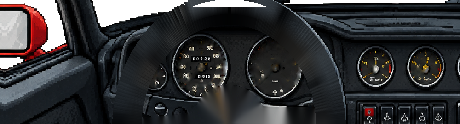
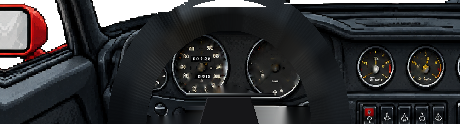
Unão Turbo (Uno Turbo i.e.) no jogo e acabamento da cabine da Onça GTB
- Sprites da lateral, traseira e frente na grade nativa (uno_sprites.py), pintura
  pelo matiz vermelho sem lanternas nem o Turbo da grade; marcas reais trocadas:
  emblema e letreiro da traseira viram lataria, placa genérica, adesivo do vidro
  sai, emblema fictício na grade
- Cabine importada (volante medido em wheels/br-uno.json), aro antigo refeito sem
  sobrar sombra no céu (gtb_rim_fix.py com opção ceu), emblema fictício no volante,
  marca do console e reflexo desenhado do retrovisor fora (uno_cockpit.py)
- Quadro Veglia como o do carro: velocímetro 0-240 com hodômetro e parcial,
  conta-giros 0-80 com faixas amarela e vermelha, turbo 0-1 bar, óleo duplo,
  combustível e água; luz da seta na régua de baixo
- Faróis, piscas, lanternas e rodas que giram
- Onça GTB: faixa do aro antigo com margem maior e média mais larga (sem lista
  clara nem riscos) e borrão atrás do miolo virou painel liso com a capa da coluna

Claude-Session: https://claude.ai/code/session_01MLD9VR7gkmY4w6a9beZcp6

diff --git a/src/carsbr.ts b/src/carsbr.ts
@@ -41,7 +41,7 @@ export const BR_CARS: CarSpec[] = [
   fwd(spec({ id: 'br-gol16v', name: 'Gaúcho GTi 16V', basedOn: 'VW Gol GTi 2.0 16v (1995)', color: '#ececec', price: 22000, position: 'dianteira', engine: '4 cil. 16v', cc: 1984, cv: 145, kmh: 205, z100: 8.0, kg: 1030, curve: 'vtec', lat: 0.88, brake: 0.95, handling: 1.02 })),
   fwd(spec({ id: 'br-tipo16v', name: 'Tiplo 16V', basedOn: 'Fiat Tipo Sedicivalvole 2.0 16v (1995)', color: '#1a3aa8', price: 21000, position: 'dianteira', engine: '4 cil. 16v', cc: 1995, cv: 137, kmh: 205, z100: 8.9, kg: 1170, curve: 'vtec', lat: 0.86, brake: 0.93, handling: 0.97 })),
   spec({ id: 'br-omega', name: 'Ômaga CD', basedOn: 'Chevrolet Omega CD 3.0 (1993)', color: '#2a2a3a', price: 30000, position: 'dianteira', engine: '6 cil. em linha', cc: 2969, cv: 165, kmh: 215, z100: 9.2, kg: 1380, curve: 'torque', lat: 0.84, brake: 0.95, handling: 0.88 }),
-  fwd(spec({ id: 'br-uno', name: 'Unão Turbo', basedOn: 'Fiat Uno Turbo i.e. 1.4 (1994)', color: '#c81818', price: 15000, position: 'dianteira', engine: '4 cil. turbo', cc: 1372, cv: 118, kmh: 195, z100: 8.8, kg: 950, curve: 'turbo', lat: 0.86, brake: 0.92, handling: 1.02 })),
+  { ...fwd(spec({ id: 'br-uno', name: 'Unão Turbo', basedOn: 'Fiat Uno Turbo i.e. 1.4 (1994)', color: '#c81818', price: 15000, position: 'dianteira', engine: '4 cil. turbo', cc: 1372, cv: 118, kmh: 195, z100: 8.8, kg: 950, curve: 'turbo', lat: 0.86, brake: 0.92, handling: 1.02 })), dash: 'br-uno', rear: { h: 0.83, roof: 0.66, lights: 'rect', wing: 1, glow: { dots: [[0.12, 0.585], [0.88, 0.585]] } } },
   spec({ id: 'br-charger', name: 'Carregador R/T', basedOn: 'Dodge Charger R/T 318 V8 (1971)', color: '#e8a018', price: 24000, position: 'dianteira', engine: 'V8', cc: 5212, cv: 215, kmh: 190, z100: 11.0, kg: 1500, gears: G4, curve: 'torque', lat: 0.72, brake: 0.8, handling: 0.78 }),
   spec({ id: 'br-maverick', name: 'Mavério GT', basedOn: 'Ford Maverick GT V8 302 (1974)', color: '#1a7a3a', price: 23000, position: 'dianteira', engine: 'V8', cc: 4950, cv: 197, kmh: 185, z100: 10.5, kg: 1350, gears: G4, curve: 'torque', lat: 0.74, brake: 0.8, handling: 0.8 }),
   // ---- classe D ----

diff --git a/src/cockpit.ts b/src/cockpit.ts
@@ -458,6 +458,30 @@ COCKPIT_ART['br-kadett'] = {
   extra: (c, ox, r) => kadettCluster(c, ox, r),
 };
 
+// Unão Turbo: quadro Veglia Borletti como o do carro — velocímetro 0-240 com hodômetro e parcial,
+// conta-giros 0-80 (× 100 rpm, "electronic") com faixa amarela e vermelha, manômetro do turbo
+// (0-1 bar) em cima no meio, óleo duplo (temperatura e pressão) embaixo, combustível à
+// esquerda e água à direita; ponteiros vermelhos
+const VEGLIA_INK = '#ececec';
+COCKPIT_ART['br-uno'] = {
+  dash: cp('br-uno-dash'), top: cp('br-uno-top'), wheel: cp('br-uno-wheel'),
+  pivot: [129, 104.2], speedMax: 240, needle: '#ff3a1a', needleW: 1.5, needleTail: 3, hub: '#141416', radar: [206, 4],
+  glass: { at: [25, 106] },
+  tells: [112, 77.5],
+  speed: { x: 101, y: 57, r: 17.5, max: 240, labels: [0, 40, 80, 120, 160, 200, 240], tick: 10, red: 999, a0: Math.PI * 0.75, sweep: Math.PI * 1.5, labelScale: 0.7, ink: VEGLIA_INK, bg: '#121416' },
+  tach: { x: 159.5, y: 57, r: 17.5, max: 8, labels: [0, 1, 2, 3, 4, 5, 6, 7, 8], labelMul: 10, tick: 0.25, yellow: 5.8, red: 6.2, a0: Math.PI * 0.75, sweep: Math.PI * 1.5, labelScale: 0.7, redLabels: false, ink: VEGLIA_INK, bg: '#121416' },
+  aux: [
+    { x: 130.3, y: 44.2, r: 9.5, kind: 'single', show: ['boost'], icon: 'turbo', labels: ['0', '0,5', '1'] },
+    { x: 130.3, y: 67.8, r: 8.8, kind: 'twin', show: ['oiltemp', 'oil'], icon: 'oil' },
+    { x: 73.5, y: 65.9, r: 8.4, kind: 'single', show: ['fuel'], icon: 'fuel', labels: ['0', '1/2', '1'] },
+    { x: 187.9, y: 65.9, r: 8.4, kind: 'single', show: ['water'], icon: 'temp', labels: ['60', '100', '140'] },
+  ],
+  extra: (c, ox, r) => {
+    odometer(c, ox, r, { x: 95, y: 50.5, w: 12, h: 3.5 }, 40230, 6, 0.5);
+    odometer(c, ox, r, { x: 97, y: 62, w: 8, h: 3.5 }, 142.5, 4, 0.5, true);
+  },
+};
+
 // Corvette C4: arte do Victor com os visores de LCD redesenhados funcionando
 COCKPIT_ART.zr1 = {
   tells: null,

diff --git a/src/cars.ts b/src/cars.ts
@@ -321,6 +321,7 @@ const LAMPS: Record<string, LampDef> = {
   countach: { pop: [0.09, 0.57, 0.26, 0.62], sigRear: [0.125, 0.55, 0.2, 0.69], sigFront: [0.05, 0.64, 0.14, 0.7] },
   viper: { head: [0.165, 0.54, 0.06], sigRear: [0.08, 0.46, 0.16, 0.5], sigRed: true, sigFront: [0.04, 0.6, 0.1, 0.65] },
   '959': { head: [0.17, 0.49, 0.05], sigRear: [0.083, 0.51, 0.183, 0.57], sigFront: [0.05, 0.65, 0.13, 0.68] },
+  'br-uno': { head: [0.19, 0.55, 0.06], sigRear: [0.065, 0.46, 0.18, 0.535], sigFront: [0.075, 0.51, 0.105, 0.6] },
   'br-kadett': { head: [0.2, 0.52, 0.06], sigRear: [0.07, 0.46, 0.15, 0.54], sigFront: [0.05, 0.46, 0.11, 0.58] },
   'br-pumagte': { head: [0.11, 0.53, 0.07], sigRear: [0.24, 0.46, 0.3, 0.6], sigFront: [0.217, 0.63, 0.022] },
   'br-pumagtb': { head: [0.185, 0.49, 0.06], sigRear: [0.16, 0.53, 0.33, 0.68], sigRed: true, sigFront: [0.1, 0.56, 0.19, 0.61] },
@@ -333,6 +334,7 @@ const LAMPS: Record<string, LampDef> = {
 // sprite), medidas pelo aro claro acima do contato com o chão: giram na chegada ao posto
 const WHEELS: Record<string, number[][]> = {
   '959': [[0.199, 0.739, 0.08], [0.754, 0.74, 0.08]],
+  'br-uno': [[0.196, 0.788, 0.061], [0.847, 0.788, 0.062]],
   'br-kadett': [[0.192, 0.775, 0.081], [0.807, 0.775, 0.081]],
   'br-pumagte': [[0.218, 0.752, 0.073], [0.781, 0.753, 0.073]],
   'br-pumagtb': [[0.192, 0.741, 0.078], [0.749, 0.738, 0.079]],

diff --git a/tools/ref/uno_sprites.py b/tools/ref/uno_sprites.py
@@ -1,0 +1,104 @@
+"""Sprites do Unão Turbo (Uno Turbo i.e.) a partir da arte ampliada: reamostra na grade nativa
+(regrid.py), troca o branco das janelas por vidro, alisa a lataria e gera as máscaras de pintura
+pelo matiz vermelho, sem as lanternas e o "Turbo" vermelho da grade. As marcas reais saem:
+emblema e letreiro da traseira viram lataria, a placa de loja vira uma placa genérica, o adesivo
+do vidro vira vidro e o emblema da grade vira o fictício (anel com traços de velocidade).
+
+Uso: python3 tools/ref/uno_sprites.py <pasta com src-side/rear/front.png> <src/assets/cars>
+"""
+import os
+import subprocess
+import sys
+
+import numpy as np
+from PIL import Image
+
+HERE = os.path.dirname(__file__)
+sys.path.insert(0, HERE)
+from glass_fix import fix_glass  # noqa: E402
+from vectra_sprites import flatten, glass, outline, red_mask  # noqa: E402
+
+PERIOD = {'side': 5.07, 'rear': 5.11, 'front': 4.395}
+INK = (14, 14, 16, 255)
+
+
+def body_fill(a, x0, y0, x1, y1, ref):
+    """Retângulo vira lataria: cada linha recebe a cor da lataria logo ao lado (coluna ref)."""
+    for y in range(y0, y1):
+        a[y, x0:x1] = a[y, ref]
+
+
+def plate(a, x0, y0, x1, y1):
+    """Placa genérica: moldura escura, fundo cinza-claro e caracteres em blocos escuros."""
+    a[y0:y1, x0:x1] = INK
+    a[y0 + 1:y1 - 1, x0 + 1:x1 - 1] = (206, 208, 212, 255)
+    a[y0 + 1, x0 + 1:x1 - 1] = (232, 234, 238, 255)
+    cy0, cy1 = y0 + (y1 - y0) // 2 - 3, y0 + (y1 - y0) // 2 + 3
+    w = x1 - x0 - 6
+    x = x0 + 4
+    glyphs = [3, 3, 3, 0, 3, 3, 3, 3]  # "AAA 0000": três letras, espaço, quatro números
+    step = w / len(glyphs)
+    for i, g in enumerate(glyphs):
+        if not g:
+            continue
+        gx = int(round(x + i * step))
+        a[cy0:cy1, gx:gx + g] = (40, 40, 46, 255)
+        a[cy0 + 2:cy1 - 2, gx + 1:gx + g - 1] = (206, 208, 212, 255)  # miolo vazado
+
+
+def emblem(a, cx, cy):
+    """Emblema fictício: anel cromado com três traços de velocidade (o mesmo do Gaúcho)."""
+    yy, xx = np.mgrid[0:a.shape[0], 0:a.shape[1]]
+    d = np.sqrt((xx + 0.5 - cx) ** 2 + (yy + 0.5 - cy) ** 2)
+    a[d <= 6.6] = INK
+    ring = (d <= 6.0) & (d > 4.6)
+    t = np.clip((yy + 0.5 - (cy - 6)) / 12, 0, 1)
+    chrome = (np.array([244, 244, 246]) * (1 - t[..., None]) + np.array([150, 152, 158]) * t[..., None]).astype(np.uint8)
+    a[ring, :3] = chrome[ring]
+    inner = d <= 4.6
+    a[inner, :3] = (14, 14, 18)
+    for dy, n in ((-2, 6), (0, 4), (2, 2)):
+        y = int(cy + dy)
+        for x in range(int(cx + 3) - n, int(cx + 3)):
+            if inner[y, x]:
+                a[y, x, :3] = chrome[y, x]
+
+
+def main():
+    src, cars = sys.argv[1], sys.argv[2]
+    for view in ('side', 'rear', 'front'):
+        out = os.path.join(cars, f'br-uno-{view}.png')
+        subprocess.run([sys.executable, os.path.join(HERE, 'regrid.py'), os.path.join(src, f'src-{view}.png'), out, str(PERIOD[view])], check=True)
+        a = np.array(Image.open(out).convert('RGBA'))
+        H, W = a.shape[:2]
+        if view == 'side':
+            glass(a)
+        if view == 'rear':
+            body_fill(a, 19, 62, 39, 72, 17)      # emblema da marca
+            body_fill(a, 131, 61, 171, 73, 128)   # letreiro com o nome do modelo
+            plate(a, 70, 81, 118, 100)            # placa de loja -> genérica
+            # adesivo no vidro traseiro: vira o vidro em volta
+            for y in range(45, 55):
+                a[y, 86:102] = a[y, 84]
+        if view == 'front':
+            # emblema da grade: refaz as listras da grade por baixo e põe o fictício
+            for y in range(100, 117):
+                a[y, 108:133] = a[y, 104]
+            emblem(a, 120.0, 108.0)
+        excl = {'rear': [], 'side': [], 'front': []}[view]
+        cut = {
+            'rear': [(12, 72, 34, 100), (153, 72, 178, 100)],
+            'side': [(231, 46, 242, 64)],
+            'front': [(68, 99, 172, 120)],  # grade (o "Turbo" vermelho fica)
+        }[view]
+        m = red_mask(a, excl, cut)
+        flatten(a, m)
+        outline(a)
+        fix_glass(a, m, view)
+        Image.fromarray(a, 'RGBA').save(out)
+        Image.fromarray((m * 255).astype(np.uint8)).convert('1').save(out.replace('.png', '-mask.png'))
+        print(view, W, H, 'máscara', int(m.sum()))
+
+
+if __name__ == '__main__':
+    main()

diff --git a/tools/ref/gtb_rim_fix.py b/tools/ref/gtb_rim_fix.py
@@ -5,7 +5,8 @@ um pouco mais largo que o volante do jogo (parecia volante duplicado, com borrã
 Cada pixel da faixa vira a cor do painel limpo logo além dela no mesmo raio (por fora, na
 margem de fora; por dentro, na margem de dentro) e o meio da faixa, que o aro do jogo sempre
 cobre, a passagem entre os dois. Elipse do aro medida em tools/ref/wheels/br-pumagtb.json.
-Uso: gtb_rim_fix.py <dash.png> (rodar uma vez sobre a arte importada)
+Uso: gtb_rim_fix.py <dash.png> [cx cy rx ry interna/externa margem] (rodar uma vez sobre a
+arte importada; sem os números, as medidas da Onça GTB)
 """
 import sys
 import numpy as np
@@ -18,6 +19,14 @@ cx, cy = 228.96, 128.3  # centro do aro (coordenadas do painel)
 rx, ry = 107.6, 127.3   # elipse externa
 RI = 0.898              # interna / externa
 MO = MI = 0.085         # margem apagada (rim_margin 7 + borrão)
+ANG = 6  # meia abertura (graus) da média de cada amostra
+SKY = False  # 'ceu': onde além do aro só há para-brisa, a margem de fora e o meio da faixa ficam transparentes
+if len(sys.argv) > 2:
+    cx, cy, rx, ry, RI, MO = map(float, sys.argv[2:8])
+    MI = MO
+    SKY = len(sys.argv) > 8 and sys.argv[8] == 'ceu'
+    if len(sys.argv) > 9:
+        ANG = float(sys.argv[9])
 lo_r, hi_r = RI - MI - 0.02, 1 + MO + 0.02
 yy, xx = np.mgrid[0:H, 0:W].astype(np.float32)
 ex, ey = (xx + 0.5 - cx) / rx, (yy + 0.5 - cy) / ry
@@ -29,9 +38,13 @@ ux, uy = ex / np.maximum(rho, 1e-6), ey / np.maximum(rho, 1e-6)
 def sample1(rr, dth):
     c, s_ = np.cos(dth), np.sin(dth)
     vx, vy = ux * c - uy * s_, ux * s_ + uy * c
-    sx = np.clip(np.round(cx + vx * rr * rx - 0.5).astype(int), 0, W - 1)
-    sy = np.clip(np.round(cy + vy * rr * ry - 0.5).astype(int), 0, H - 1)
-    return a[sy, sx]
+    sxf, syf = np.round(cx + vx * rr * rx - 0.5), np.round(cy + vy * rr * ry - 0.5)
+    sx = np.clip(sxf.astype(int), 0, W - 1)
+    sy = np.clip(syf.astype(int), 0, H - 1)
+    v = a[sy, sx].copy()
+    if SKY:  # acima do painel (fora da imagem) é para-brisa
+        v[syf < 0, 3] = 0
+    return v
 
 
 def sample(rr, sgn):
@@ -39,7 +52,7 @@ def sample(rr, sgn):
     acc = np.zeros_like(a)
     n = np.zeros(a.shape[:2] + (1,), np.float32)
     for k in range(3):
-        for d in np.radians(np.arange(-6, 7, 1.5)):
+        for d in np.radians(np.arange(-ANG, ANG + 0.1, 1.5)):
             v = sample1(rr + sgn * 0.02 * k, d)
             w = (v[..., 3:4] > 0).astype(np.float32)
             acc += v * w
@@ -50,13 +63,17 @@ def sample(rr, sgn):
 
 
 out_c, in_c = sample(hi_r, 1), sample(lo_r, -1)
-# no alto, além do aro só há para-brisa (transparente): ali a faixa toda vem de dentro
-out_c = np.where((out_c[..., 3] > 0)[..., None], out_c, in_c)
+# no alto, além do aro só há para-brisa (transparente): ali a faixa toda vem de dentro (ou,
+# com 'ceu', o que não é a margem de dentro fica transparente: céu atrás do aro)
+sky_out = out_c[..., 3] == 0
+out_c = np.where((~sky_out)[..., None], out_c, in_c)
 t = np.clip((rho - (RI - 0.005)) / (1.005 - (RI - 0.005)), 0, 1)[..., None]
 mid = in_c * (1 - t) + out_c * t
 res = np.where((rho > 1)[..., None], out_c, np.where((rho < RI)[..., None], in_c, mid))
 # fora do painel (transparente) por fora: continua transparente
 res[..., 3] = np.where(res[..., 3] > 0, 255, 0)
+if SKY:
+    res[..., 3] = np.where(sky_out & (rho >= RI), 0, res[..., 3])
 a[band] = res[band]
 Image.fromarray(np.clip(a, 0, 255).astype(np.uint8)).save(P)
 print('faixa refeita:', int(band.sum()))

diff --git a/tools/ref/uno_cockpit.py b/tools/ref/uno_cockpit.py
@@ -1,0 +1,63 @@
+"""Acabamento da cabine do Unão Turbo (depois de import_cockpit.py br-uno e de
+gtb_rim_fix.py ... ceu): as marcas reais saem.
+- volante: o emblema da marca no miolo vira o fictício (anel cromado com traços de velocidade)
+- console: o nome da marca embaixo da tela vira o plástico em volta
+- retrovisor esquerdo: o reflexo desenhado no vidro vira vidro liso (o jogo desenha o reflexo)
+
+Uso: python3 tools/ref/uno_cockpit.py src/assets/cockpit
+"""
+import os
+import sys
+
+import numpy as np
+from PIL import Image
+
+
+def main():
+    d = sys.argv[1]
+    wp, dp = os.path.join(d, 'br-uno-wheel.png'), os.path.join(d, 'br-uno-dash.png')
+    w = np.array(Image.open(wp).convert('RGBA'))
+    a = np.array(Image.open(dp).convert('RGBA'))
+    # emblema do volante
+    cx, cy = 128.1, 106.1
+    yy, xx = np.mgrid[0:w.shape[0], 0:w.shape[1]]
+    dd = np.sqrt((xx + 0.5 - cx) ** 2 + (yy + 0.5 - cy) ** 2)
+    ring = (dd > 11) & (dd < 13.5) & (w[..., 3] > 0)
+    pad = np.median(w[ring, :3], axis=0).astype(np.uint8)
+    w[dd <= 11, :3] = pad
+    w[dd <= 6.8, :3] = (14, 14, 16)
+    chrome = (dd <= 6.2) & (dd > 4.8)
+    t = np.clip((yy + 0.5 - (cy - 6)) / 12, 0, 1)
+    col = (np.array([236, 236, 240]) * (1 - t[..., None]) + np.array([130, 132, 138]) * t[..., None]).astype(np.uint8)
+    w[chrome, :3] = col[chrome]
+    inner = dd <= 4.8
+    w[inner, :3] = (16, 16, 20)
+    for dy, n in ((-2, 6), (0, 4), (2, 2)):
+        y = int(cy + dy)
+        for x in range(int(cx + 3) - n, int(cx + 3)):
+            if inner[y, x]:
+                w[y, x, :3] = col[y, x]
+    # nome da marca no console
+    for y in range(76, 84):
+        a[y, 365:381] = a[y, 363]
+    # vidro do retrovisor (teto + painel juntos): azul-claro liso, mais claro em cima
+    tp = os.path.join(d, 'br-uno-top.png')
+    t = np.array(Image.open(tp).convert('RGBA'))
+    al = np.vstack([t, a])
+    rgb = al[..., :3].astype(int)
+    zone = np.zeros(al.shape[:2], bool)
+    zone[80:135, :60] = True
+    glass = zone & (al[..., 3] > 0) & (rgb.min(axis=2) > 60) & (rgb[..., 0] < rgb[..., 1] + 30)  # tudo que não é moldura (escura ou vermelha)
+    ys = np.nonzero(glass)[0]
+    for y in range(ys.min(), ys.max() + 1):
+        f = (y - ys.min()) / max(1, ys.max() - ys.min())
+        al[y, glass[y], :3] = (int(196 - 30 * f), int(222 - 28 * f), int(240 - 22 * f))
+    Image.fromarray(al[:t.shape[0]]).save(tp)
+    a = al[t.shape[0]:]
+    Image.fromarray(w).save(wp)
+    Image.fromarray(a).save(dp)
+    print('emblema e console trocados')
+
+
+if __name__ == '__main__':
+    main()

diff --git a/tools/ref/gtb_cabin_fix.py b/tools/ref/gtb_cabin_fix.py
@@ -1,0 +1,41 @@
+"""Onça GTB: refaz o painel atrás do volante a partir da arte importada.
+
+1. faixa do aro antigo (gtb_rim_fix.py) com margem maior (pegava ainda uma lista clara à
+   esquerda) e média mais larga (sem riscos radiais)
+2. embaixo do quadro, atrás do miolo, a importação deixou um borrão cinza e marrom (aparece
+   pelos vãos do volante): vira o painel liso (cada linha passa da cor da esquerda para a da
+   direita) com a capa escura da coluna de direção no meio
+
+Uso: gtb_cabin_fix.py <dash importado.png> <saída br-pumagtb-dash.png>
+"""
+import os
+import shutil
+import subprocess
+import sys
+
+import numpy as np
+from PIL import Image
+
+src, out = sys.argv[1], sys.argv[2]
+HERE = os.path.dirname(__file__)
+shutil.copy(src, out)
+subprocess.run([sys.executable, os.path.join(HERE, 'gtb_rim_fix.py'), out, '228.96', '128.3', '107.6', '127.3', '0.898', '0.13', 'nao', '12'], check=True)
+a = np.array(Image.open(out).convert('RGBA')).astype(np.float32)
+H = a.shape[0]
+X0, X1, Y0 = 187, 273, 93
+for y in range(Y0, H):
+    l, r = a[y, X0 - 1, :3], a[y, X1, :3]
+    for x in range(X0, X1):
+        t = (x - X0 + 1) / (X1 - X0 + 1)
+        a[y, x, :3] = l * (1 - t) + r * t
+    a[y, X0:X1, 3] = 255
+cx = 229
+for y in range(Y0 + 4, H):
+    half = 22 + (y - Y0 - 4) * 0.3
+    x0, x1 = int(round(cx - half)), int(round(cx + half))
+    a[y, x0:x1, :3] = (22, 22, 24)
+    a[y, x0, :3] = (50, 50, 54)
+    a[y, x1 - 1, :3] = (12, 12, 13)
+a[Y0 + 4, int(cx - 22):int(cx + 22), :3] = (60, 60, 64)
+Image.fromarray(np.clip(a, 0, 255).astype(np.uint8)).save(out)
+print('painel atrás do volante refeito')

diff --git a/tools/ref/import_cockpit.py b/tools/ref/import_cockpit.py
@@ -111,6 +111,16 @@ CARS = {
         'hub_fill': ((30, 30, 33), 430),
         'wheel_rows': 230, 'paint': 'column', 'rim_margin': 6, 'hole_sky_above': 206,
     },
+    # Unão Turbo: quadro Veglia como o do carro (combustível, velocímetro 0-240 com hodômetro,
+    # turbo 0-1 bar em cima, óleo duplo embaixo, conta-giros 0-80 e água): o jogo redesenha tudo
+    'br-uno': {
+        'scale': 0.43, 'x0': 250, 'y0': 247,
+        'gauges': {'speed': (485, 363, 42), 'tach': (621, 363, 42), 'turbo': (553, 337, 23), 'oil': (553, 385, 21),
+                   'fuel': (421, 381, 20), 'water': (687, 381, 20)},
+        'top_art': [(720, 0, 950, 145)], 'sky_left': True, 'despeckle': True,
+        'hub_fill': ((26, 26, 29), 470),
+        'wheel_rows': 230, 'paint': 'column', 'rim_margin': 6, 'hole_sky_above': 262,
+    },
     # Corvette C4: painel digital (os visores de LCD são redesenhados funcionando no jogo)
     'zr1': {
         'scale': 0.35, 'x0': 153, 'y0': 175,
